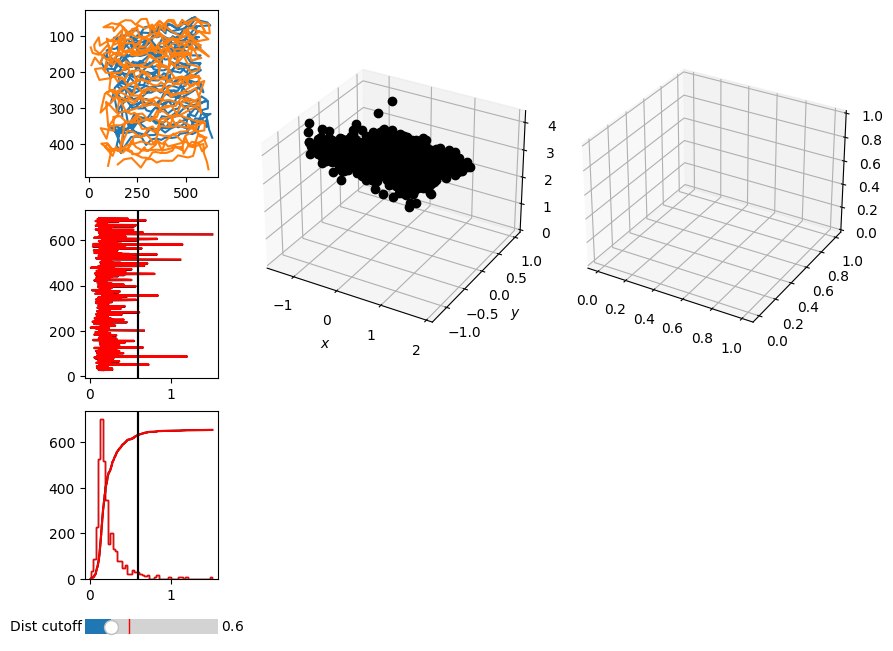
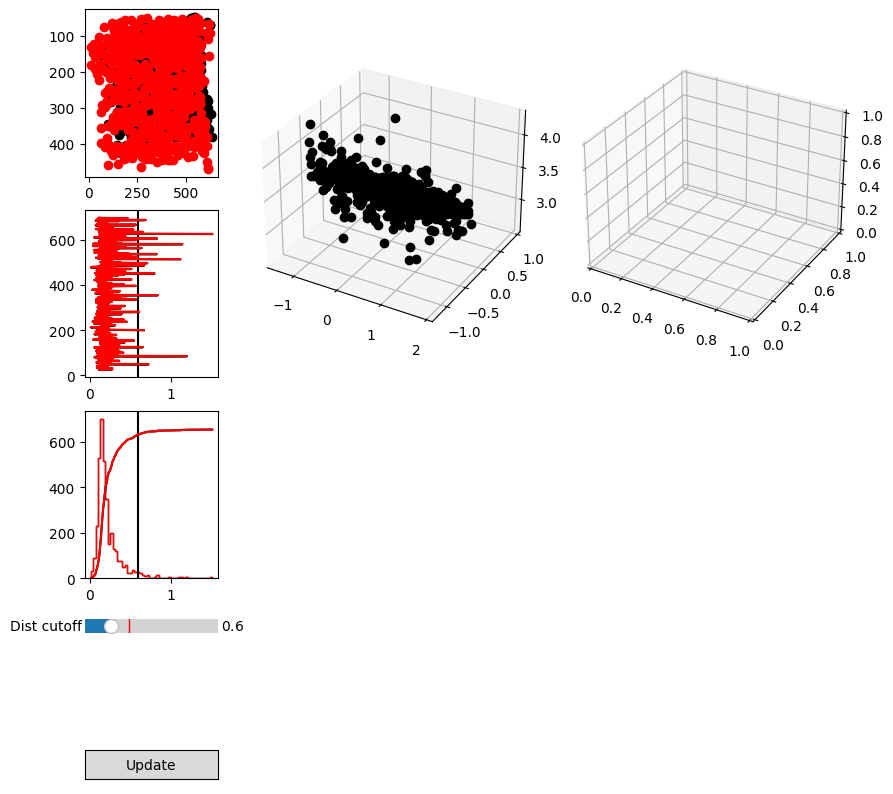
some work on makecoords3d

diff --git a/litledlights/calibrate/makecoords3d.py b/litledlights/calibrate/makecoords3d.py
@@ -569,7 +569,7 @@ def OLD_coords3d_flag_bad_coords(coords3d:np.ndarray,
     # slider
     
     if ax_3d is None:
-        from matplotlib.widgets import RangeSlider,Slider
+        from matplotlib.widgets import RangeSlider,Slider,Button
         # Create the Slider
         slider_ax = fig.add_axes([0.20, 0.1, 0.60, 0.03])
         slider_cutoff = Slider(slider_ax, "cutoff", 0, 5,valinit=cutoff,valstep=0.01)
@@ -784,7 +784,12 @@ def coords3d_flag_bad_coords(coords3d,cutoff,dists_fwd=None,dists_bwd=None):
 class coords2dto3dObject(object):
     
     def __init__(self,*args,**kwargs):
-        from matplotlib.widgets import Slider
+        
+        pass
+    
+    def initialize_fig(self,*args,**kwargs):
+        
+        from matplotlib.widgets import Slider,Button
         
         distcutoff = 1.#kwargs.get('distcutoff',1.)
         
@@ -802,12 +807,16 @@ class coords2dto3dObject(object):
         self.ax_distdistr  = self.fig.add_subplot(self.gs[2, 0])
         self.ax_distdistr_lines = [self.ax_distdistr.axvline(distcutoff,c='k')]
         
-        
+        # coords3d
         self.ax_3d = self.fig.add_subplot(self.gs[0:2, 1:3],projection='3d')
-        self.ax_3d_lines = [x[0] for x in [self.ax_3d.plot([],[],[],c='k',marker='o',ls=''),self.ax_3d.plot([],[],[],c='c',marker='o',ls='')]]
+        
+        self.ax_3d.set_xlabel('$x$')
+        self.ax_3d.set_ylabel('$y$')
+        self.ax_3d.set_zlabel('$z$')
         
         self.ax_3d2 = self.fig.add_subplot(self.gs[0:2, 3:5],projection='3d')
-        self.ax_3d2_lines = [x[0] for x in [self.ax_3d2.plot([],[],[],c='k',marker='o',ls='')] ]
+        
+        
         
         ### Sliders
         self.gs_sliders = self.gs[3,0].subgridspec(5, 1)
@@ -816,16 +825,14 @@ class coords2dto3dObject(object):
         self.slider_distcutoff = Slider(self.ax_slider_distcutoff, "Dist cutoff", 0., 3., valinit=distcutoff, valstep=0.01)
         self.slider_distcutoff.on_changed(self.slider_distcutoff_update)
         
+        self.ax_button_update = self.fig.add_subplot(self.gs_sliders[-1])
+        self.button_update = Button(self.ax_button_update, "Update")
+        self.button_update.on_clicked(self.button_update_update)
+        
     def slider_distcutoff_update(self,val):
     
         self.distcutoff = val
-        
-        self.update()
-    
-    def update(self):
-        
-        distcutoff = self.distcutoff
-        
+        distcutoff = val
         self.ax_distperind_lines[0].set_xdata([distcutoff,distcutoff])
         self.ax_distdistr_lines[0].set_xdata([distcutoff,distcutoff])
         
@@ -833,20 +840,91 @@ class coords2dto3dObject(object):
         # Redraw the figure to ensure it updates
         self.fig.canvas.draw_idle()
     
-    def initialize(self,coords2d1,coords2d2,
+        
+        # self.update()
+    
+    def button_update_update(self,event):
+        
+        self.update()
+    
+    def update(self):
+        print("Update")
+        distcutoff = self.distcutoff
+        ## Calculation nation
+        from calibrate.triangulate import combine_pair_coords2d
+        coords3d = combine_pair_coords2d(self.coords2d1,self.coords2d2,self.camera_matrix)
+        coords3d =  h cd x c                                              xc coords3d
+        self.coords3d = coords3d
+        
+        dists_fwd,dists_bwd = calc_neighbour_distances(self.coords3d)
+        
+        
+    
+        suggested_distcutoff = 4.*np.nanmean(dists_fwd)/3. # average r is 3/4 of radius
+        print("Suggested distcutoff {0}".format(suggested_distcutoff))
+        print("Mean Distance, Cutoff",np.nanmean(dists_fwd),distcutoff)
+        
+        
+    
+        # print(self.coords3d)
+        flags = coords3d_flag_bad_coords(coords3d,distcutoff)
+        
+        ind_toofar = flags == 2
+        ind_nan = flags == 1
+        
+        ## Plots
+        # Clear
+        self.ax_distperind.clear()
+        self.ax_distdistr.clear()
+        self.ax_3d.clear()
+        
+        # Distance plots
+        self.ax_distperind_lines[0] = self.ax_distperind.axvline(distcutoff,c='k')
+        self.ax_distdistr_lines[0] = self.ax_distdistr.axvline(distcutoff,c='k')
+        
+        print("Plotting distances, Black: forward, Red: backward")
+        # plt.figure()
+        self.ax_distperind.plot(dists_fwd,range(len(dists_fwd)),c='k')
+        self.ax_distperind.plot(dists_bwd,range(len(dists_bwd)),c='r')
+        
+        # plt.show()
+        
+        # print(dists)
+        print("Plotting distance distribution, Black: forward, Red: backward")
+        # plt.figure()
+        self.ax_distdistr.plot(np.sort(dists_fwd),range(len(dists_fwd)),c='k')
+        counts, bins = np.histogram(dists_fwd,range=(np.nanmin(dists_fwd),np.nanmax(dists_fwd)),bins='auto',density=True)
+        self.ax_distdistr.stairs(len(dists_fwd)*counts/np.max(counts), bins,ec='k') # Density times lens to share same y-range
+        self.ax_distdistr.plot(np.sort(dists_bwd),range(len(dists_bwd)),c='r')
+        counts, bins = np.histogram(dists_bwd,range=(np.nanmin(dists_bwd),np.nanmax(dists_bwd)),bins='auto',density=True)
+        self.ax_distdistr.stairs(len(dists_bwd)*counts/np.max(counts), bins,ec='r') # Density times lens to share same y-range
+        
+        # 3d
+        self.ax_3d.plot(*self.coords3d.transpose(),c='k',marker='o',ls='')
+        
+        # Redraw the figure to ensure it updates
+        self.fig.canvas.draw_idle()
+    
+    def initialize_data(self,coords2d1,coords2d2,
             distcutoff: float = None,
             camera_matrix: np.ndarray=None):
         
-        self.coords2d1 = coords2d1
-        self.coords2d2 = coords2d2
-        self.ax_2d_lines[0] = self.ax_2d.plot(coords2d1[:,0],coords2d1[:,1],c='k',marker='o',ls='')
-        self.ax_2d_lines[1] = self.ax_2d.plot(coords2d2[:,0],coords2d2[:,1],c='k',marker='o',ls='')
+        self.coords2d1 = np.ma.asarray(coords2d1)
+        self.coords2d2 = np.ma.asarray(coords2d2)
         
+        self.ax_2d_lines[0] = self.ax_2d.plot(self.coords2d1[:,0],self.coords2d1[:,1],c='k',marker='o',ls='')
+        self.ax_2d_lines[1] = self.ax_2d.plot(self.coords2d2[:,0],self.coords2d2[:,1],c='r',marker='o',ls='')
         
         self.distcutoff = distcutoff if distcutoff is not None else config.coords3dflagbadcoords_cutoff
         self.slider_distcutoff.set_val(self.distcutoff)
         
         self.camera_matrix = camera_matrix
+        
+        
+        self.ind = np.ones(coords2d1.shape[0],dtype=bool)
+        self.coords3d = np.ma.asarray( np.nan*np.zeros((self.coords2d1.shape[0],3)) )
+        print(self.coords3d)
+        
         
         self.update()
     
@@ -865,9 +943,13 @@ def iterative_pair_coords2d_to_coords3d(coords2d1,coords2d2,
         undistorted = np.squeeze(undistorted)
         coords2d2 = undistorted
     
-    coordObject = coords2dto3dObject()
     
-    coordObject.initialize(coords2d1,coords2d2,
+    
+    
+    
+    coordObject = coords2dto3dObject()
+    coordObject.initialize_fig()
+    coordObject.initialize_data(coords2d1,coords2d2,
                     distcutoff=None,# defaults to config
                     camera_matrix=camera_matrix)
     
@@ -883,51 +965,9 @@ def iterative_pair_coords2d_to_coords3d(coords2d1,coords2d2,
     # ax_2d.invert_yaxis()
     
     
-    from calibrate.triangulate import combine_pair_coords2d
-    # coords3d = combine_pair_coords2d(coords2d1,coords2d2,camera_matrix,distortions=distortions,new_camera_matrix=new_camera_matrix)
-    coords3d = combine_pair_coords2d(coords2d1,coords2d2,camera_matrix)
     
-    
-    dists_fwd,dists_bwd = calc_neighbour_distances(coords3d)
-    
-    
-    cutoff = 4.*np.nanmean(dists_fwd)/3. # average r is 3/4 of radius
-    print("Suggested cutoff {0}".format(cutoff))
-    cutoff = config.coords3dflagbadcoords_cutoff if config.coords3dflagbadcoords_cutoff is not None else cutoff
-    print("Mean Distance, Cutoff",np.nanmean(dists_fwd),cutoff)
-    
-    print(coords3d)
-    flags = coords3d_flag_bad_coords(coords3d,cutoff)
-    
-    
-    print("Plotting distances, Black: forward, Red: backward")
-    # plt.figure()
-    ax_distperind.plot(dists_fwd,range(len(dists_fwd)),c='k')
-    ax_distperind.plot(dists_bwd,range(len(dists_bwd)),c='r')
-    
-    cutoff_vline1 = ax_distperind.axvline(cutoff,c='k')
     # plt.show()
     
-    # print(dists)
-    print("Plotting distance distribution, Black: forward, Red: backward")
-    # plt.figure()
-    ax_distdistr.plot(np.sort(dists_fwd),range(len(dists_fwd)),c='k')
-    counts, bins = np.histogram(dists_fwd,range=(np.nanmin(dists_fwd),np.nanmax(dists_fwd)),bins='auto',density=True)
-    ax_distdistr.stairs(len(dists_fwd)*counts/np.max(counts), bins,ec='k') # Density times lens to share same y-range
-    ax_distdistr.plot(np.sort(dists_bwd),range(len(dists_bwd)),c='r')
-    counts, bins = np.histogram(dists_bwd,range=(np.nanmin(dists_bwd),np.nanmax(dists_bwd)),bins='auto',density=True)
-    ax_distdistr.stairs(len(dists_bwd)*counts/np.max(counts), bins,ec='r') # Density times lens to share same y-range
-    
-    cutoff_vline2 = ax_distdistr.axvline(cutoff,c='k')
-    # plt.show()
-    
-    
-    ###
-    # coords3d
-    ax_3d.plot(*coords3d.transpose(),c='k',marker='o',ls='')
-    ax_3d.set_xlabel('$x$')
-    ax_3d.set_ylabel('$y$')
-    ax_3d.set_zlabel('$z$')
     
     
     

diff --git a/litledlights/__main__.py b/litledlights/__main__.py
@@ -18,3 +18,6 @@ calibrate.makecoords3d.main()
 
 
 
+
+
+
